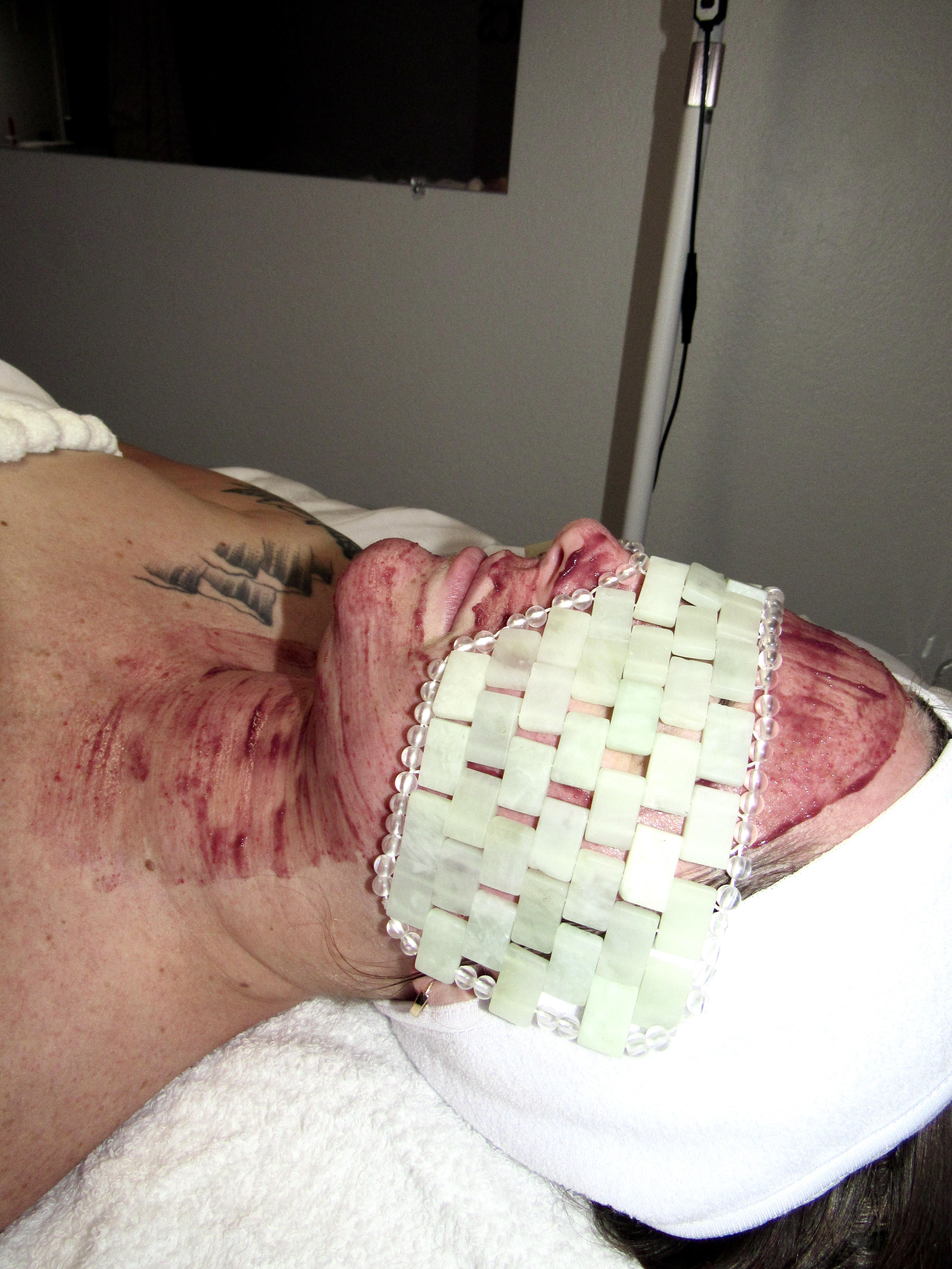
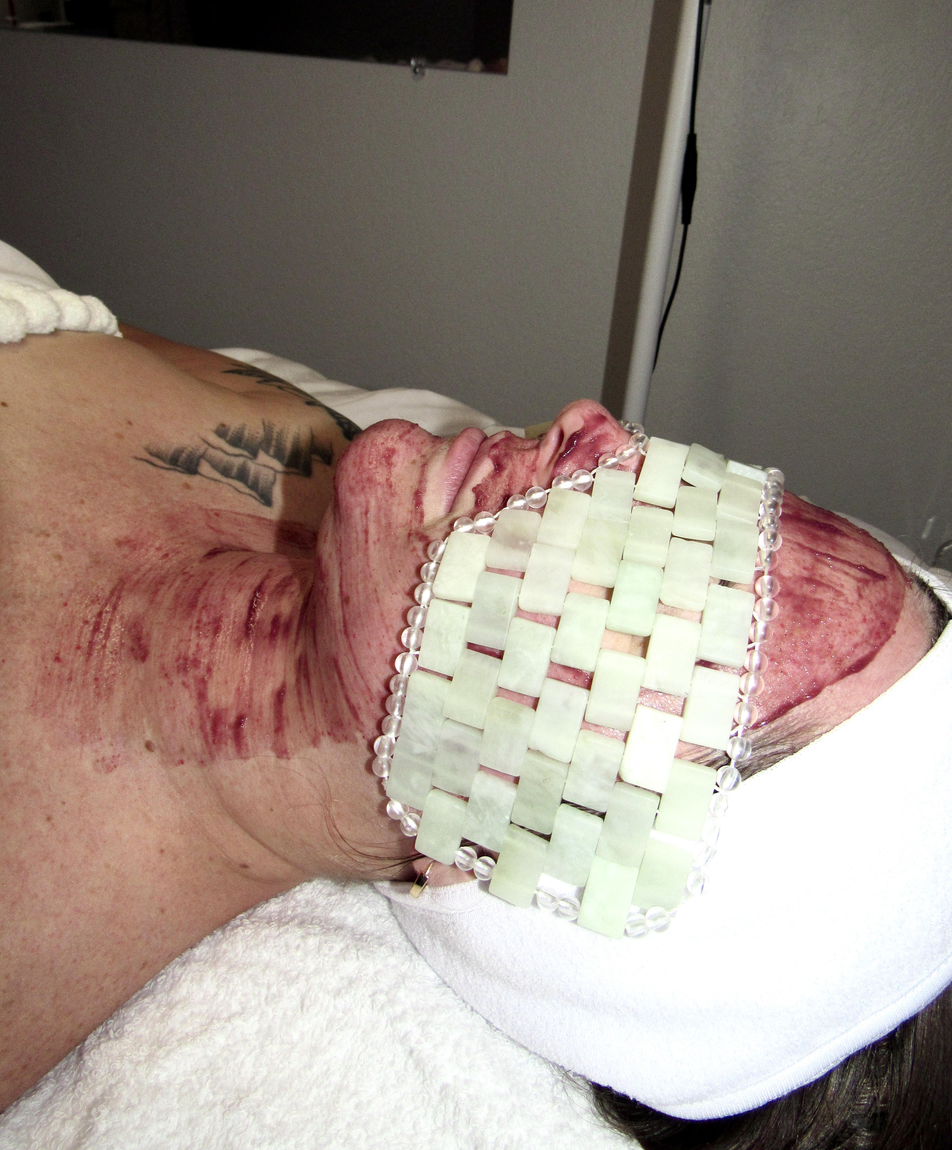
fixing image sizing issued

diff --git a/index.html b/index.html
@@ -14,11 +14,11 @@
   <link rel="canonical" href="https://trumodern-esthetics.net/" />
 
   <!-- Open Graph -->
-  <meta property="og:title" content="Brazilian Waxing, Facials & Skincare Treatments in Austin, TX" />
+  <meta property="og:title" content="Corrective Facial Treatments & Full Body Waxing | Austin, TX" />
   <meta property="og:description" content="Expert Brazilian waxing, full body waxing, brow shaping, hyperpigmentation and acne facial treatments, chemical peels, and personalized skincare treatments in Austin, Texas." />
   <meta property="og:type" content="website" />
   <meta property="og:url" content="https://trumodern-esthetics.net/" />
-  <meta property="og:image" content="https://trumodern-esthetics.net/media/hero.jpg" />
+  <meta property="og:image" content="https://trumodern-esthetics.net/media/hero-2.jpg" />
 
   <!-- Twitter -->
   <meta name="twitter:card" content="summary_large_image" />
@@ -215,21 +215,21 @@
         <span>Acne Facial Treatments</span><span>&#9670;</span>
         <span>Eyebrow Waxing</span><span>&#9670;</span>
         <span>Brazilian Waxing</span><span>&#9670;</span>
-        <span>Custom Facials Treatments</span><span>&#9670;</span>
+        <span>Custom Facial Treatments</span><span>&#9670;</span>
         <!-- repeat -->
         <span>Hyperpigmentation Treatments</span><span>&#9670;</span>
         <span>Chemical Peels</span><span>&#9670;</span>
         <span>Acne Facial Treatments</span><span>&#9670;</span>
         <span>Eyebrow Waxing</span><span>&#9670;</span>
         <span>Brazilian Waxing</span><span>&#9670;</span>
-        <span>Custom Facials Treatments</span><span>&#9670;</span>
+        <span>Custom Facial Treatments</span><span>&#9670;</span>
         <!-- repeat -->
         <span>Hyperpigmentation Treatments</span><span>&#9670;</span>
         <span>Chemical Peels</span><span>&#9670;</span>
         <span>Acne Facial Treatments</span><span>&#9670;</span>
         <span>Eyebrow Waxing</span><span>&#9670;</span>
         <span>Brazilian Waxing</span><span>&#9670;</span>
-        <span>Custom Facials Treatments</span><span>&#9670;</span>
+        <span>Custom Facial Treatments</span><span>&#9670;</span>
       </div>
     </div>
 
@@ -365,7 +365,7 @@
         <!-- Service: CUSTOM FACIAL TREATMENTS -->
         <article class="feature" data-reveal>
           <div class="feature__media">
-            <img src="media/facial.JPEG" alt="Custom facial treatment" loading="lazy" />
+            <img src="media/facial-3.jpg" alt="Custom facial treatment" loading="lazy" />
             <span class="feature__tag">Facial</span>
           </div>
           <div class="feature__body">
@@ -506,16 +506,16 @@
       <div class="container">
         <header class="section__head" data-reveal>
           <p class="eyebrow">Before &amp; After</p>
-          <h2 class="display display--md">Quiet results,<br/><em>visible glow.</em></h2>
+          <h2 class="display display--md">Modern Treatments.<br/><em>Real Results.</em></h2>
         </header>
 
         <div class="gallery__grid" data-reveal>
           <figure><img src="media/suite-2.jpg" alt="suite picture, great atmosphere" loading="lazy" /></figure>
           <figure><img src="media/eyebrow-wax-4.jpg" alt="Clear, even-toned skin — client three" loading="lazy" /></figure>
-          <figure><img src="media/suite.jpg" alt="Amazing and relaxing facial" loading="lazy" /></figure>
+          <figure><img src="media/facial.JPEG" alt="Amazing and relaxing facial" loading="lazy" /></figure>
           <figure><img src="media/red-light.jpg" alt="" loading="lazy" /></figure>
           <figure><img src="media/regan.JPEG" alt="Post-treatment glow — client six" loading="lazy" /></figure>
-          <figure><img src="media/mask.jpg" alt="Hydrating facial mask for great skin" loading="lazy" /></figure>
+          <figure><img src="media/mask.jpg" alt="Hydrating facial mask fsor great skin" loading="lazy" /></figure>
         </div>
 
         <div class="testimonials" data-reveal>
@@ -802,7 +802,7 @@
 
     <div class="container footer__bottom">
       <p>&copy; <span data-year></span> Trumodern Esthetics. All rights reserved.</p>
-      <p class="footer__fineprint">Crafted with care. Booking powered by Square.</p>
+      <p class="footer__fineprint">Crafted with care.</p>
     </div>
   </footer>
 
